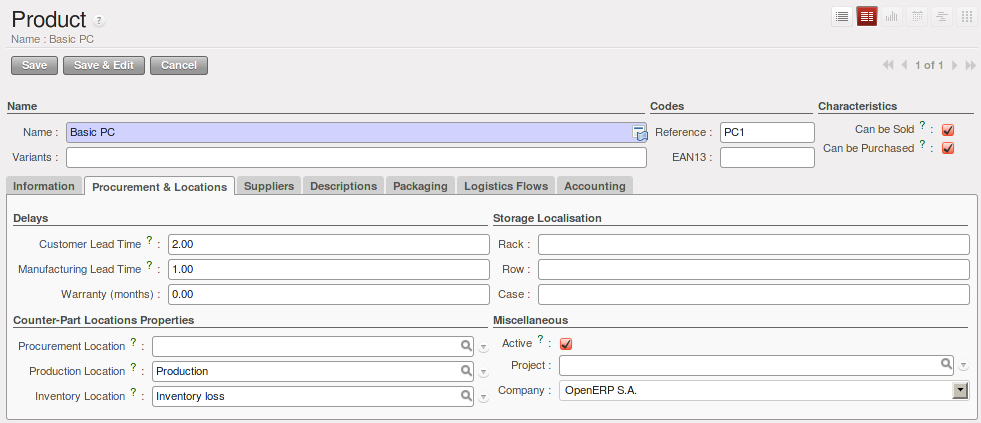
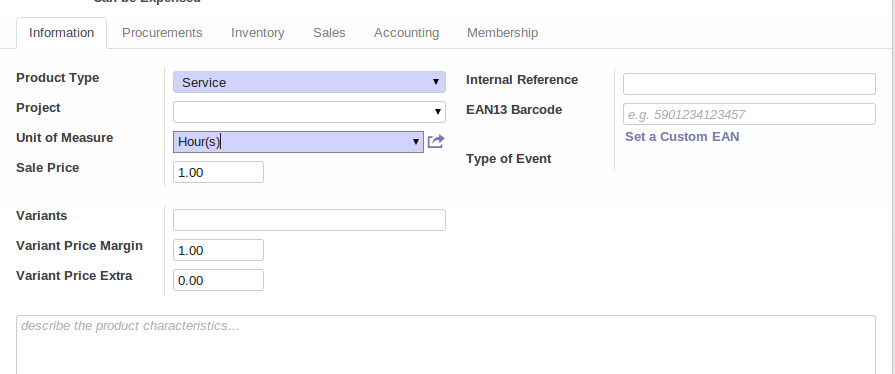
[IMP] Improve Production and Services

Changed region(s): [[0.0, 0.0, 1.0, 1.0], [0.1207, 0.0, 0.2112, 0.0294], [0.5128, 0.6176, 0.543, 0.6471]]

diff --git a/5/5_15_Manufacturing/5_15_Manufacturing_forecasting.rst b/5/5_15_Manufacturing/5_15_Manufacturing_forecasting.rst
@@ -366,7 +366,7 @@ For this last category, OpenERP can react in two different ways. Once a manufact
    In order to automatically generate a task, you have to install the module :mod:`project_mrp` which
    requires the installation of the module :mod:`project`.
 
-By default, the generated task is not linked to any project. You can change this behaviour by creating a project and link the service to this project. This can be done in the ``Product`` form, on the tab :guilabel:`Procurement & Locations` in the :guilabel:`Miscellaneous` section. Select the project to be linked in the ``Project`` field.
+By default, the generated task is not linked to any project. You can change this behaviour by creating a project and link the service to this project. This can be done in the ``Product`` form, on the tab :guilabel:`Information` . Select the project to be linked in the ``Project`` field.
 
 .. figure:: images/service_prj.png
     :scale: 75
@@ -388,16 +388,12 @@ First, you have to create a project to which you want to link the service. We wi
    Reference          CSLT
    Product Type       Service
    Procurement Method Make to Order
-   Supply Method      Produce
+   Supply Method      Manufacture
    Default UoM        Hour
    **Project**        **Consulting**
    ================== ==============
    
 Once you have configured your project and your product, you can create a Sales Order to order hours of consultancy. When you confirm the Sales Order, a task will be created.
-
-.. figure:: images/soprj_tip.png
-    :scale: 100
-    :align: center
     
 If you go to :menuselection:`Project --> Project --> Tasks`, you will find a new task called: :guilabel:`SO011:[CSLT] Consulting`. This task is linked to the project :guilabel`Consulting`. Note that the Sales Order number may be different in your database.
 
